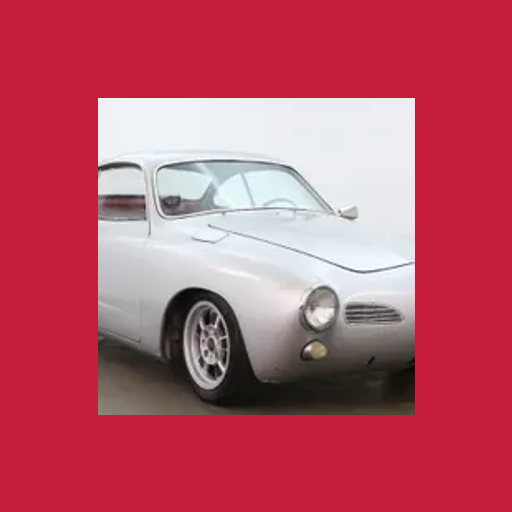
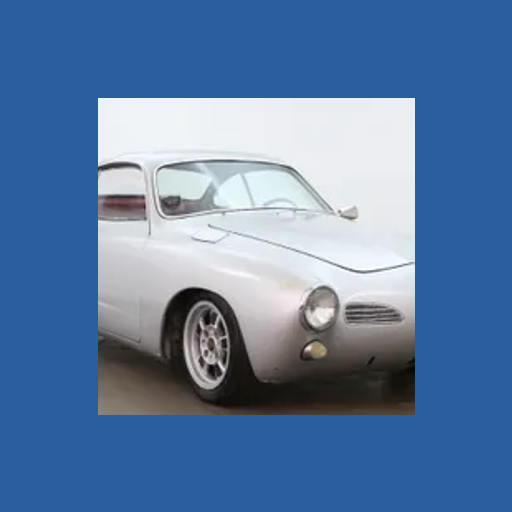
Rebrand to slate/steel color scheme with a muted steel-blue accent (WCAG-validated) for a more professional look

diff --git a/styles.css b/styles.css
@@ -1,12 +1,12 @@
 :root {
-  --surface-1:      #fcfcfb;
-  --page:           #f9f9f7;
-  --text-primary:   #0b0b0b;
-  --text-secondary: #52514e;
-  --text-muted:     #898781;
-  --gridline:       #e1e0d9;
-  --border:         rgba(11,11,11,0.10);
-  --series-1:       #C41E3A;
+  --surface-1:      #ffffff;
+  --page:           #f4f6f8;
+  --text-primary:   #0f172a;
+  --text-secondary: #475569;
+  --text-muted:     #64748b;
+  --gridline:       #e2e8f0;
+  --border:         rgba(15,23,42,0.10);
+  --series-1:       #2A5F9E;
   --good:           #0ca30c;
   --warning:        #fab219;
   --serious:        #ec835a;
@@ -14,14 +14,14 @@
 }
 @media (prefers-color-scheme: dark) {
   :root {
-    --surface-1:      #1a1a19;
-    --page:           #0d0d0d;
-    --text-primary:   #ffffff;
-    --text-secondary: #c3c2b7;
-    --text-muted:     #898781;
-    --gridline:       #2c2c2a;
+    --surface-1:      #161b22;
+    --page:           #0d1117;
+    --text-primary:   #f1f5f9;
+    --text-secondary: #cbd5e1;
+    --text-muted:     #94a3b8;
+    --gridline:       #263041;
     --border:         rgba(255,255,255,0.10);
-    --series-1:       #D2334F;
+    --series-1:       #3F72A8;
     --good:           #0ca30c;
     --warning:        #fab219;
     --serious:        #ec835a;
@@ -58,7 +58,7 @@ header {
   border-bottom: 1px solid rgba(255,255,255,0.08);
   flex-wrap: wrap;
   gap: 12px;
-  background: #111113;
+  background: #10141b;
   box-shadow: 0 2px 8px rgba(0,0,0,0.15);
   position: sticky;
   top: 0;
@@ -327,7 +327,7 @@ footer { text-align: center; color: var(--text-muted); font-size: 12px; padding:
   justify-content: center;
   gap: 14px;
   padding: 48px 56px;
-  background: radial-gradient(circle at 20% 20%, #3a0d14 0%, #0a0a0b 62%), linear-gradient(160deg, #C41E3A 0%, #111113 55%);
+  background: radial-gradient(circle at 20% 20%, #1c3a52 0%, #0a0e14 62%), linear-gradient(160deg, #2A5F9E 0%, #10141b 55%);
   color: #fff;
 }
 .auth-hero-icon { width: 64px; height: 64px; border-radius: 16px; margin-bottom: 6px; }

diff --git a/index.html b/index.html
@@ -4,7 +4,7 @@
 <meta charset="UTF-8">
 <meta name="viewport" content="width=device-width, initial-scale=1.0">
 <title>Vehicle Project Tracker</title>
-<meta name="theme-color" content="#C41E3A">
+<meta name="theme-color" content="#2A5F9E">
 <meta name="mobile-web-app-capable" content="yes">
 <meta name="apple-mobile-web-app-capable" content="yes">
 <meta name="apple-mobile-web-app-status-bar-style" content="black-translucent">